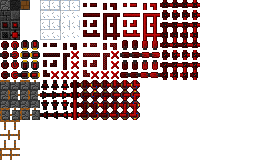
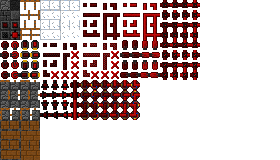
Add files via upload

Changed region(s): [[0.0, 0.75, 0.1429, 1.0], [0.0571, 0.0, 0.1429, 0.25]]

diff --git a/Logic world/world.py b/Logic world/world.py
@@ -107,25 +107,27 @@ class World:
             "energy block" : 13,
             "button" : 14,
             "piston" : 15,
-            "piston head" : 16
+            "piston head" : 16,
+            "no pushable" : 17
         }
         self.inventory_block_indexes = {
-            "wire": 0,
-            "activator": 1,
-            "block": 2,
-            "NOT": 3,
-            "wire box": 4,
-            "AND": 5,
-            "XOR": 6,
-            "diode": 7,
-            "output": 8,
-            "glass": 9,
-            "armored wire": 10,
-            "memory": 11,
-            "sensor": 12,
-            "energy block": 13,
-            "button": 14,
-            "piston": 15
+            "wire" : 0,
+            "activator" : 1,
+            "block" : 2,
+            "NOT" : 3,
+            "wire box" : 4,
+            "AND" : 5,
+            "XOR" : 6,
+            "diode" : 7,
+            "output" : 8,
+            "glass" : 9,
+            "armored wire" : 10,
+            "memory" : 11,
+            "sensor" : 12,
+            "energy block" : 13,
+            "button" : 14,
+            "piston" : 15,
+            "no pushable" : 16
         }
         self.inventory_index = 0
         self.inventory = {"wire" : 9999, "activator" : 9999, "block" : 9999, "NOT" : 9999, "wire box" : 9999, "AND" : 9999, "XOR" : 9999, "diode" : 9999, "armored wire" : 9999, "memory" : 9999, "output" : 9999, "glass" : 9999, "air" : 0}

diff --git a/Logic world/image_factory.py b/Logic world/image_factory.py
@@ -64,6 +64,9 @@ def get_sensor_image(data, size=40):
 def get_piston_image(data, size=40):
     return(get_image(data["activated"], 8 + data["rotate"], size=size))
 
+def get_no_pushable_image(neighbours, size=40):
+    return(get_image(neighbours[2] * 2 + neighbours[3], 12 + neighbours[0] * 2 + neighbours[1], size=size))
+
 def get_block_image(sftype, neighbours, data, size=40):
     if sftype == "wire":
         return(get_wire_image(data, neighbours, size=size))
@@ -97,6 +100,8 @@ def get_block_image(sftype, neighbours, data, size=40):
         return(get_image(0, 3, size=size))
     elif sftype == "piston":
         return(get_piston_image(data, size=size))
+    elif sftype == "no pushable":
+        return(get_no_pushable_image(neighbours, size=size))
     elif sftype == "air":
         img = pygame.Surface((size, size))
         img.set_colorkey((0, 0, 0))

diff --git a/Logic world/block.py b/Logic world/block.py
@@ -129,6 +129,7 @@ from button_block import ButtonBlock
 from piston import Piston
 from brick import Brick
 from piston_head import PistonHead
+from no_pushable import NoPushable
 
 def get_block(world, pos, type, glassed=0, data=None):
     if type == "air":
@@ -162,7 +163,9 @@ def get_block(world, pos, type, glassed=0, data=None):
     elif type == "piston":
         return(Piston(world, pos, glassed, data))
     elif type == "piston head":
-        return (PistonHead(world, pos, glassed, data))
+        return(PistonHead(world, pos, glassed, data))
+    elif type == "no pushable":
+        return(NoPushable(world, pos, glassed, data))
     return(Block(world, pos, type, glassed, data))
 
 def get_block_params(type):

diff --git a/Logic world/no_pushable.py b/Logic world/no_pushable.py
@@ -1,0 +1,20 @@
+import pygame
+from block import Block
+from air import Air
+from image_factory import *
+
+class NoPushable(Block):
+    def __init__(self, world, pos, glassed=0, data=None):
+        preset_data = {}
+        Block.__init__(self, world, pos, "no pushable", glassed, data, preset_data)
+
+    def get_pushable(self, rotate):
+        return(0)
+
+    def get_image(self):
+        see = [0, 0, 0, 0]
+        for i in range(4):
+            pos = self.get_rotate_position(i)
+            if self.border(pos):
+                see[i] = self.world.field[pos[0]][pos[1]].type == "no pushable"
+        return(get_image(see[2] * 2 + see[3], 12 + see[0] * 2 + see[1], size=self.world.block_scale))

diff --git a/Logic world/piston_head.py b/Logic world/piston_head.py
@@ -20,4 +20,4 @@ class PistonHead(Block):
         return(0)
 
     def get_image(self):
-        return(get_image(self.data["sticky"], 12 + self.data["rotate"], size=self.world.block_scale))
+        return(get_image(2 + self.data["sticky"], self.data["rotate"], size=self.world.block_scale))
